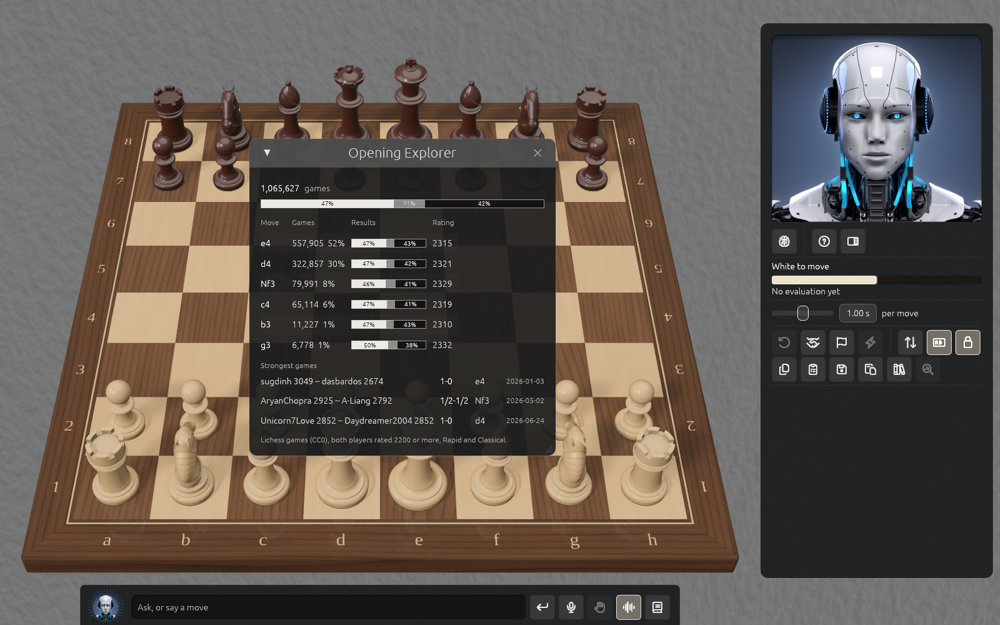
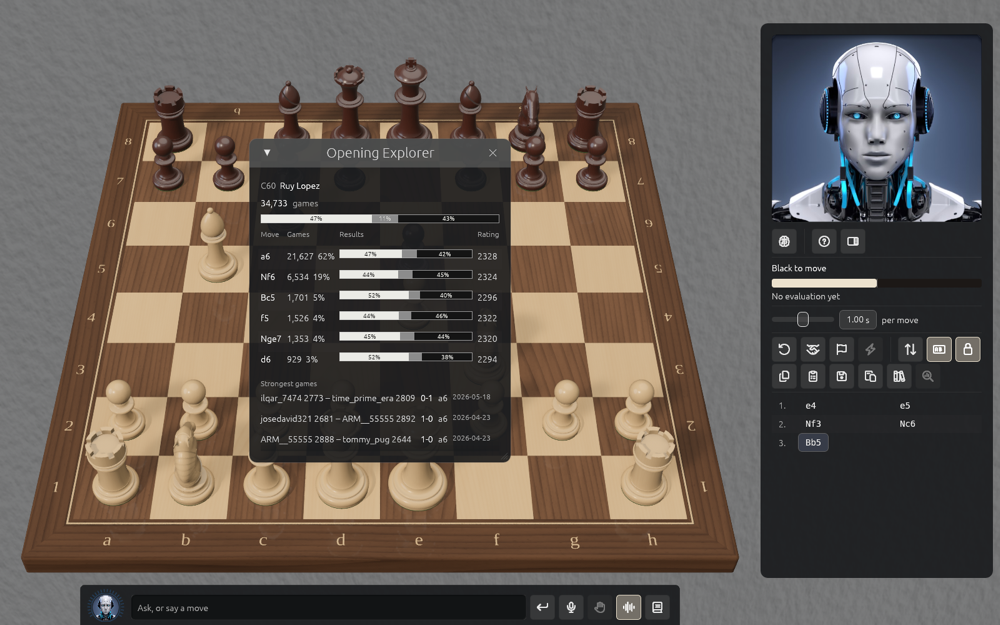
Opening Explorer: the opening's name, own or inherited along the moves
The panel names the opening (ECO code and Lichess's name) and, for a position
without a name of its own, the last named one along the moves played; it shows
no name rather than a wrong one when earlier positions weren't looked up. The
picture is the Ruy Lopez with its name (cjus/chessgui#755).

diff --git a/book/src/learning.md b/book/src/learning.md
@@ -56,6 +56,10 @@ Press ⌘B, or choose View ▸ Opening Explorer, to see what strong players play
 position on the board. Its games are Lichess's: over a million Rapid and Classical games
 between players rated 2200 or more, shared openly by Lichess.
 
+- **The opening's name**, at the top: its ECO code and its name in Lichess's list of
+  openings, such as C60 Ruy Lopez. A position without a name of its own shows the last named
+  one along the moves played, as Lichess does: after 3… a6 4. Ba4 the panel still says
+  C70 Ruy Lopez: Morphy Defense.
 - **The games and results**: how many games reached the position, and how often White won,
   drew or lost, as a bar.
 - **The moves played**, most played first: how many games played each, how they went, and
@@ -65,7 +69,13 @@ between players rated 2200 or more, shared openly by Lichess.
 
 It follows the board, so stepping back through a game or analysing one shows each position
 as you reach it. It keeps the first 20 moves of each game, and positions at least two games
-reached, so later in a game it says that no two games reached the position.
+reached, so later in a game it says that no two games reached the position. It still names
+the opening there, from the positions before.
+
+The name comes from the positions the panel has looked up. A game opened at a later move, or
+the panel opened after the opening, may show no name until you step back through the earlier
+positions; so may moving quickly past them, with the arrow keys or a click further down the
+moves. Solrac shows no name rather than a wrong one.
 
 The Opening Explorer needs Solrac activated on this Mac and a connection: it asks Solrac's
 online data, with your licence, for each position you look at. If it can't, it says why,
